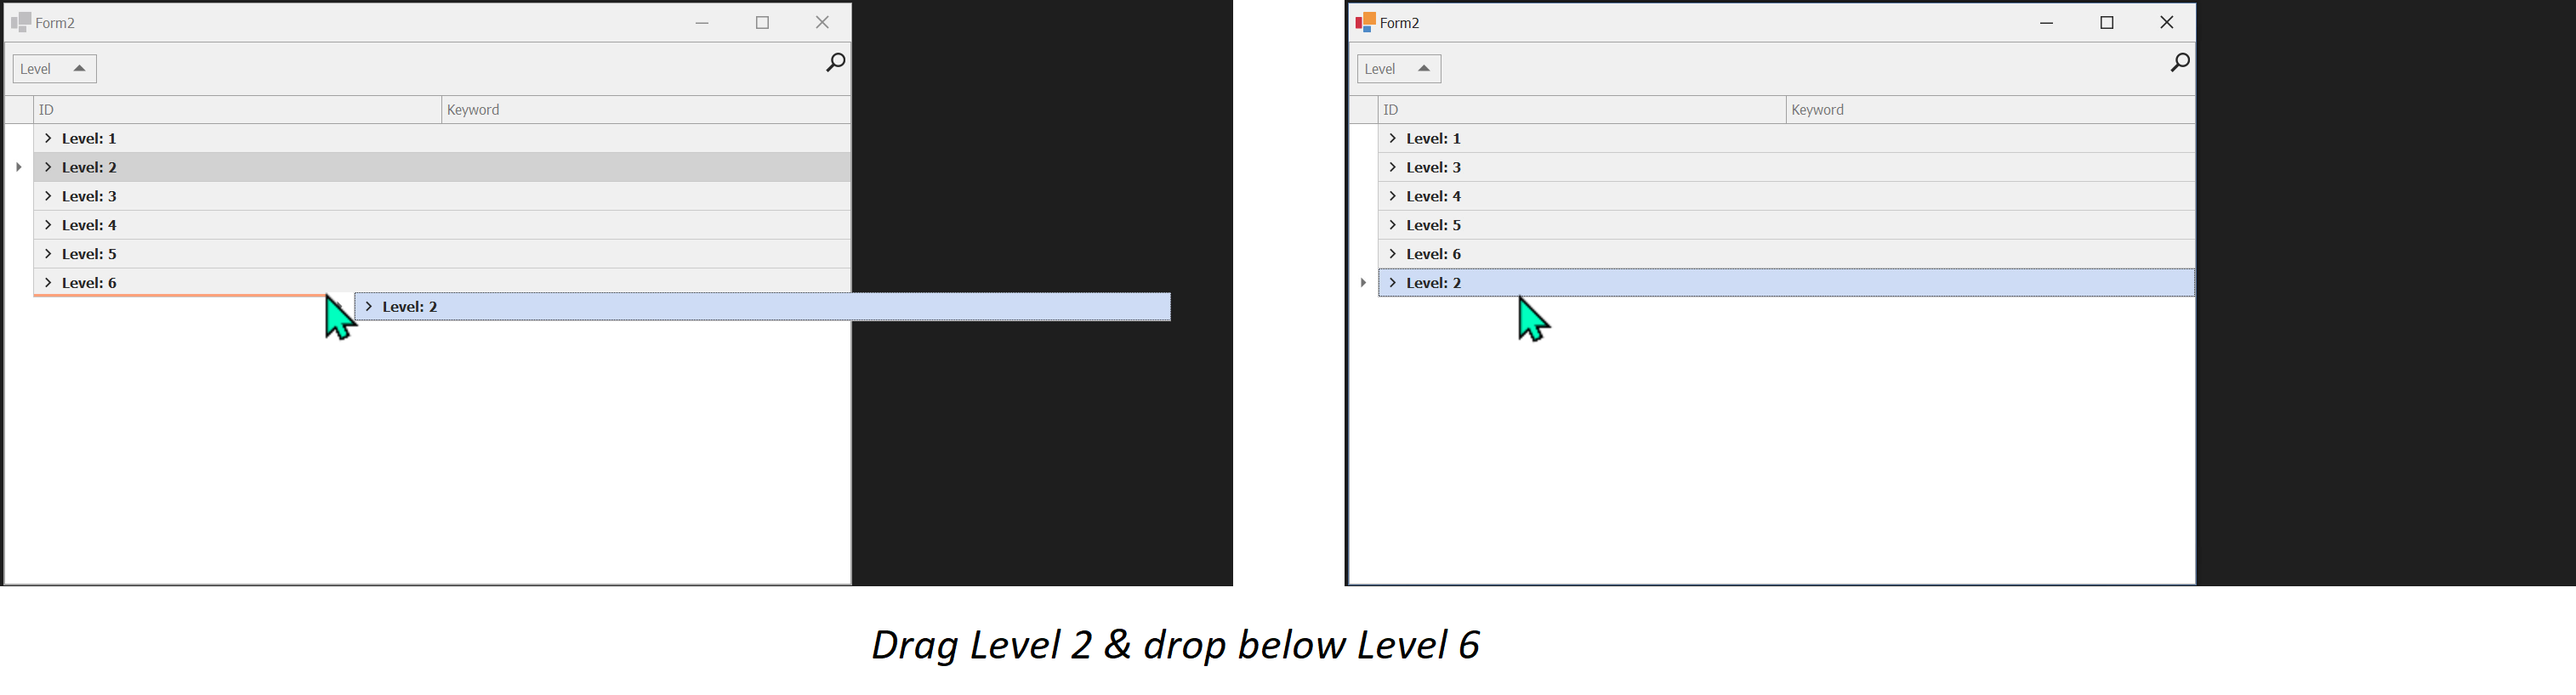
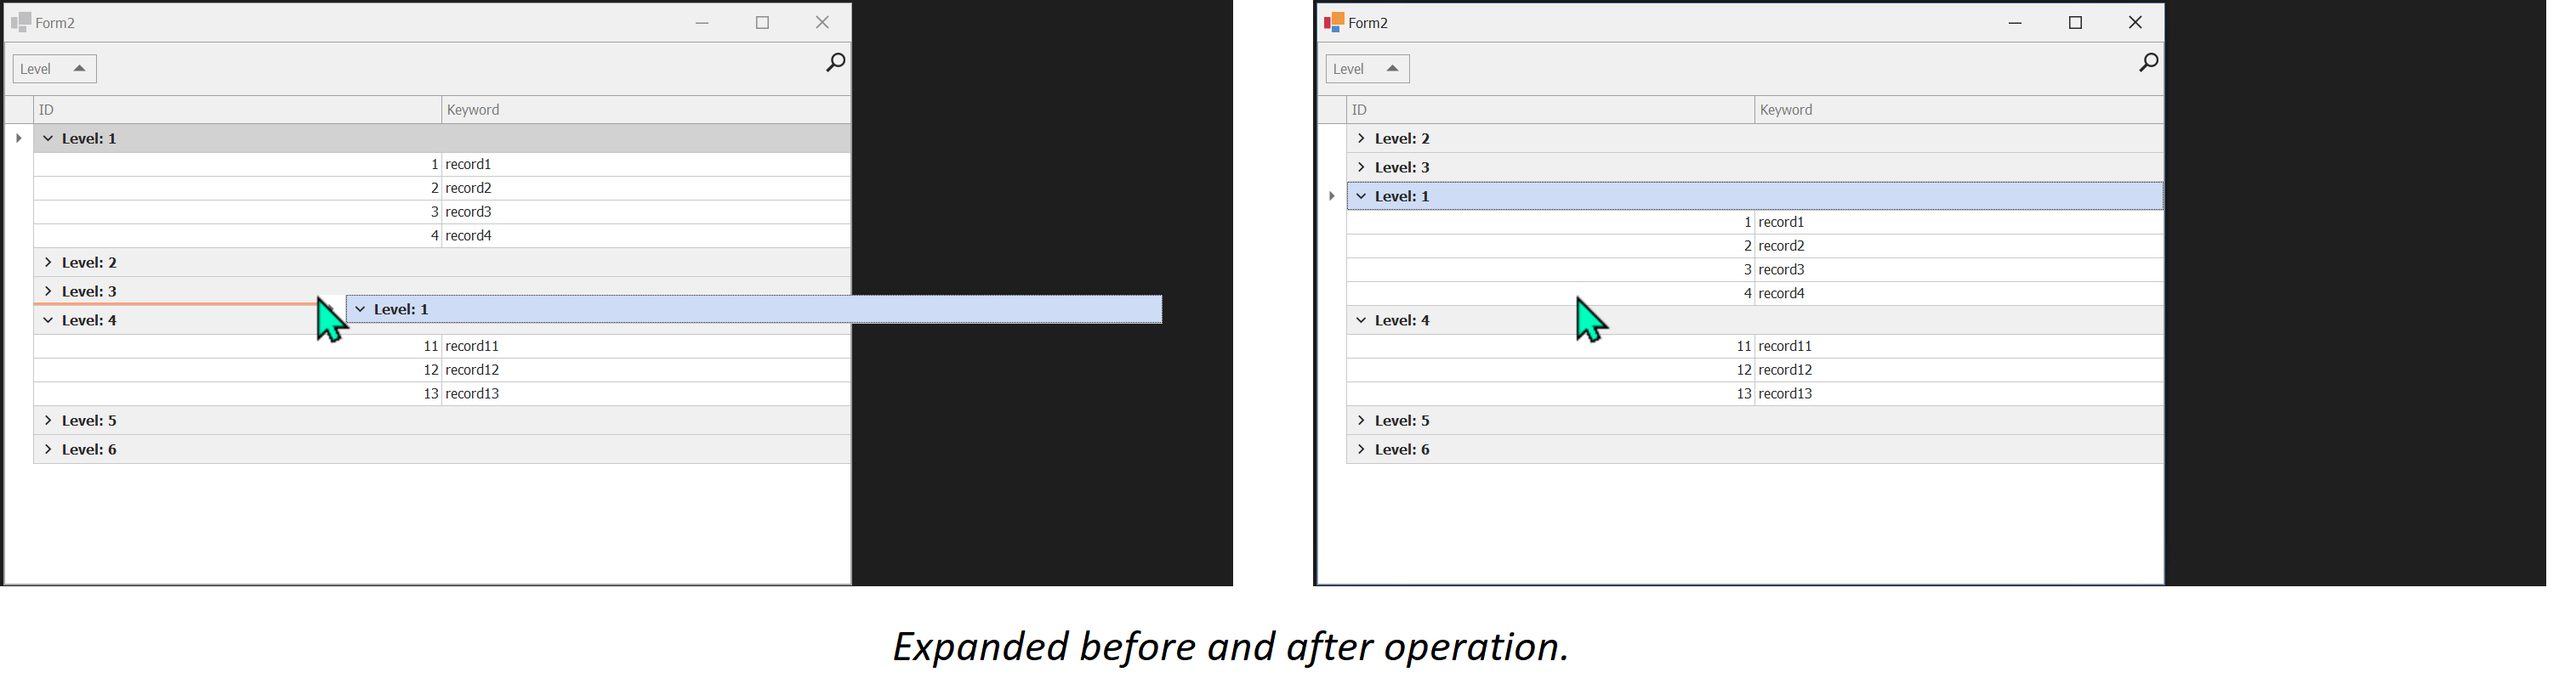
readme ++ PLUS add row redraw variant

diff --git a/E764/GridViewEx.cs b/E764/GridViewEx.cs
@@ -30,7 +30,7 @@ namespace E764
             MouseUp += OnMouseUp;
             CustomDrawGroupRow += OnCustomDrawGroupRow;
             DataSourceChanged += OnDataSourceChanged;
-            DisableCurrencyManager = true; // Use this setting From sample code.
+            DisableCurrencyManager = true; // Use this setting from sample code.
             GroupRowCollapsing += OnGroupRowCollapsing;
             CustomColumnSort += OnCustomColumnSort;
         }
@@ -95,11 +95,6 @@ namespace E764
         private Point _mouseDownClient = Point.Empty;
         private int _mouseDeltaX = 0;
         private int _mouseDeltaY = 0;
-
-        protected virtual void OnCustomColumnSort(object sender, CustomColumnSortEventArgs e)
-        {
-            e.Handled = true;
-        }
 
         protected virtual void OnDrop()
         {
@@ -210,11 +205,6 @@ namespace E764
             }
         }
 
-        protected virtual void OnGroupRowCollapsing(object sender, RowAllowEventArgs e)
-        {
-            e.Allow = GroupDragDropState.Equals(GroupDragDropState.None);
-        }
-
         /// <summary>
         /// Disable automatic sorting. 
         /// </summary>
@@ -225,6 +215,19 @@ namespace E764
                 column.SortMode = ColumnSortMode.Custom;
             }
             ExpandGroupLevel(1);
+        }
+
+        protected virtual void OnCustomColumnSort(object sender, CustomColumnSortEventArgs e)
+        {
+            e.Handled = true;
+        }
+
+        /// <summary>
+        /// Disallow collapses during drag operations
+        /// </summary>
+        protected virtual void OnGroupRowCollapsing(object sender, RowAllowEventArgs e)
+        {
+            e.Allow = GroupDragDropState.Equals(GroupDragDropState.None);
         }
         protected virtual void OnGroupDragDropStateChanged()
         {
@@ -276,24 +279,30 @@ namespace E764
         };
 
         #region P R O P E R T I E S
-        GridGroupRowInfo _dragRowInfo = default(GridGroupRowInfo);
         public GridGroupRowInfo DragRowInfo { get; set; }
 
         public GridGroupRowInfo CurrentGroupRowInfo { get; set; }
 
-        public bool DropBelow
+    public bool DropBelow
+    {
+        get => _dropBelow;
+        set
         {
-            get => _dropBelow;
-            set
+            if (!Equals(_dropBelow, value))
             {
-                if (!Equals(_dropBelow, value))
-                {
-                    _dropBelow = value;
-                    RefreshRow(CurrentGroupRowInfo.RowHandle);
-                }
+                _dropBelow = value;
+    #if true
+                // "Minimal redraw" version
+                RefreshRow(CurrentGroupRowInfo.RowHandle);
+    #else
+                // But if drawing artifacts are present, refresh
+                // the entire control surface instead.
+                GridControl.Refresh();
+    #endif
             }
         }
-        bool _dropBelow = false;
+    }
+    bool _dropBelow = false;
 
         GroupDragDropState GroupDragDropState
         {

diff --git a/README.md b/README.md
@@ -2,7 +2,7 @@ This answer uses a custom `GridViewEx` class inherited from `GridView` which all
 
 - Before or After Target Row
 - Expanded rows stay expanded
-- Drag feedback similar to row version
+- Drag feedback similar to record version
 
 This custom version is simply swapped out manually in the Designer.cs file.
 
@@ -115,7 +115,7 @@ The `Drag` state is entered if the mouse-down cursor travels more than 10 positi
 ***
 **Drag Feedback**
 
-Entering the drag state takes a screenshot of the clicked row. *In order for* `Graphics.CopyFromScreen` *to work properly, the appconfig.cs has been modified to per-screen DPI awareness*.
+Entering the drag state takes a screenshot of the clicked row. *To ensure the proper operation of the* `Graphics.CopyFromScreen` *method, the appconfig.cs has been modified to per-screen DPI awareness*.
 
 
 appconfig.cs
@@ -174,7 +174,7 @@ GridViewEx.cs
         }
     }
 
-This image is assigned to the `BackgroundImage` of the `_dragFeedbackLabel` member which is a borderless form that can be drawn outside the rectangle of the main form. When visible, this form tracks the mouse cursor movement by means of a MessageFilter intercepting `WM_MOUSEMOVE` messages.
+This image is assigned to the `BackgroundImage` of the `_dragFeedbackLabel` member which is a borderless form that can be drawn outside the rectangle of the main form. When visible, this form tracks the mouse cursor movement by means of a `MessageFilter` intercepting `WM_MOUSEMOVE` messages.
 
     class DragFeedback : Form, IMessageFilter
     {
@@ -273,10 +273,33 @@ The row dividers are drawn by handling the `GridView.CustomDrawGroupRow` event.
         }
     }
 
+When the `DropBelow` value toggles at the midpoint of the drag over _or_ when the target row changes, the affected row(s) need to be redrawn.
+
+    public bool DropBelow
+    {
+        get => _dropBelow;
+        set
+        {
+            if (!Equals(_dropBelow, value))
+            {
+                _dropBelow = value;
+    #if true
+                // "Minimal redraw" version
+                RefreshRow(CurrentGroupRowInfo.RowHandle);
+    #else
+                // But if drawing artifacts are present, refresh
+                // the entire control surface instead.
+                GridControl.Refresh();
+    #endif
+            }
+        }
+    }
+    bool _dropBelow = false;
+
 ***
 **OnDrop**
 
-The `ItemsArray` for the removed records is stashed in a dictionary to allow reassignment before adding inserting the same `DataRow` instance at a new index. Adjustments to the insert operation are made depending on the value of the `DropBelow` boolean which was set in the `MouseMove` handler.
+The `ItemsArray` for the removed records is stashed in a dictionary to allow reassignment before inserting the same `DataRow` instance at a new index. Adjustments to the insert operation are made depending on the value of the `DropBelow` boolean which was set in the `MouseMove` handler.
 
     protected virtual void OnDrop()
     {
@@ -350,6 +373,36 @@ The `ItemsArray` for the removed records is stashed in a dictionary to allow rea
                 Debug.Assert(false, ex.Message);
             }
         }
+    }
+
+***
+**Misc**
+
+`GridViewEx` takes a blanket approach to enabling custom sort only, and preliminary testing shows that drag drop in its present form works the same for the Keyword grouping as it does for Level.
+
+    /// <summary>
+    /// Disable automatic sorting. 
+    /// </summary>
+    protected virtual void OnDataSourceChanged(object sender, EventArgs e)
+    {
+        foreach (GridColumn column in Columns)
+        {
+            column.SortMode = ColumnSortMode.Custom;
+        }
+        ExpandGroupLevel(1);
+    }
+
+    protected virtual void OnCustomColumnSort(object sender, CustomColumnSortEventArgs e)
+    {
+        e.Handled = true;
+    }
+
+    /// <summary>
+    /// Disallow collapses during drag operations
+    /// </summary>
+    protected virtual void OnGroupRowCollapsing(object sender, RowAllowEventArgs e)
+    {
+        e.Allow = GroupDragDropState.Equals(GroupDragDropState.None);
     }
 
   [1]: https://i.stack.imgur.com/jrsNW.png
